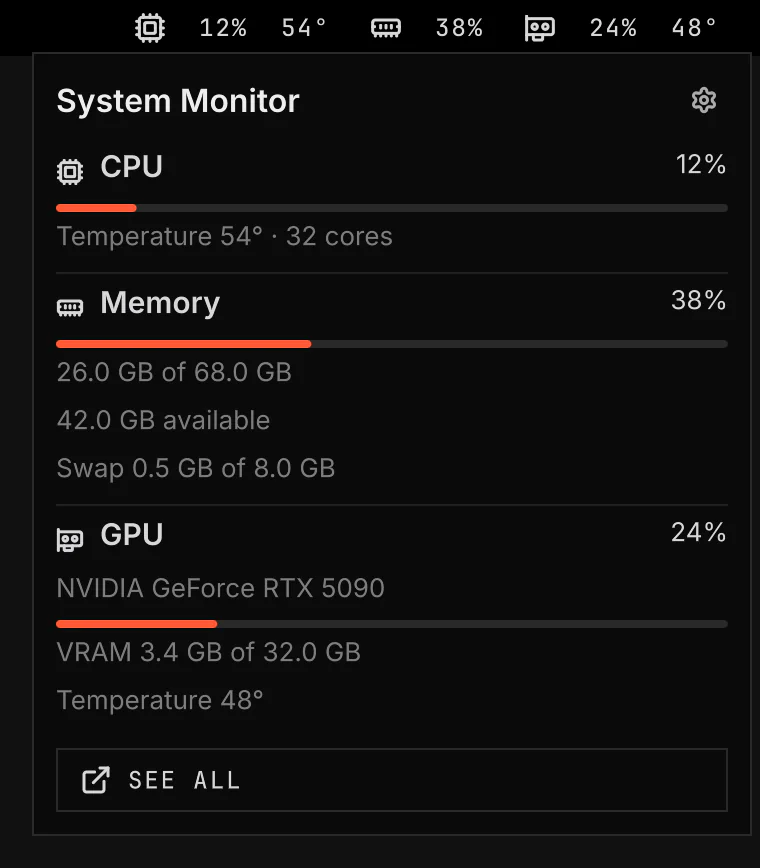
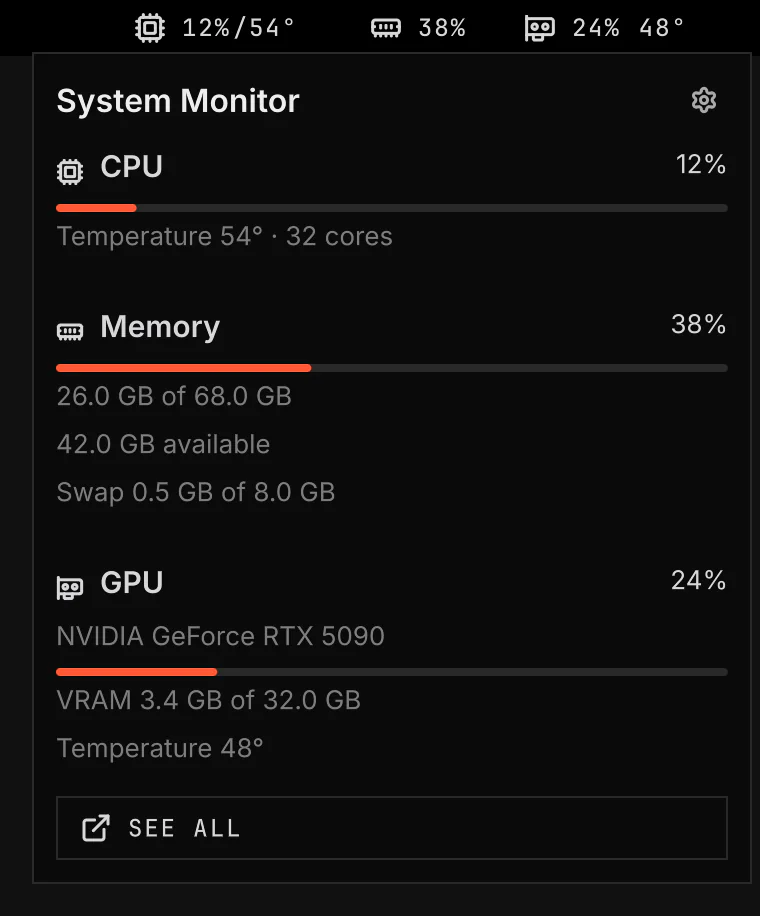
fix(VGS-1091): refine readings and sensor settings
Address review

[validate: qml unit controls; nested smoke]

diff --git a/scripts/qml-tests/tst_sysmon_widget.qml b/scripts/qml-tests/tst_sysmon_widget.qml
@@ -11,6 +11,7 @@ Item {
     property var leaseCalls: []
     QtObject { id: status; property var values: ({}) }
     Component { id: widgetComponent; Sysmon.Widget {} }
+    Component { id: panelComponent; Sysmon.Panel {} }
 
     TestCase {
         id: tests
@@ -25,7 +26,7 @@ Item {
                 gpu: gpu === undefined ? { id: "gpu", name: "Fixture GPU", state: "awake", use: use, temperature: 42 } : gpu };
         }
         function scope() {
-            return { status: status,
+            return { status: status, settings: {}, requirements: { missing: ["btop"] },
                 ipc: { call: function (method, argument) {
                     root.leaseCalls = root.leaseCalls.concat([[method, argument]]);
                     return "ok";
@@ -92,15 +93,52 @@ Item {
             widget.settings = { showCpu: true, showMemory: true, showGpu: true,
                 cpuTemperature: true, gpuTemperature: true, showSwap: true, memoryUnit: "used" };
             const readings = items();
-            compare(readings[0].count, "54°");
+            compare(readings[0].text + readings[0].count, "5%/54°");
             compare(readings[1].text, "1.0 GB");
             compare(readings[1].count, "· 0%");
             compare(readings[2].count, "42°");
             status.values = { readings: sample(null) };
             const empty = sample(null); empty.cpu.temperature = null; empty.gpu.temperature = null;
             status.values = { readings: empty };
-            compare(readings[0].count, "--");
+            compare(readings[0].count, "/--");
             compare(readings[2].count, "--");
+        }
+        function test_fahrenheit_readings_keep_celsius_tones() {
+            widget.settings = { showCpu: true, showGpu: true, cpuTemperature: true,
+                gpuTemperature: true, temperatureUnit: "Fahrenheit" };
+            const value = sample(12); value.cpu.temperature = 70; value.gpu.temperature = 65;
+            status.values = { readings: value };
+            const readings = items();
+            compare(readings[0].text + readings[0].count, "12%/158°");
+            compare(readings[2].count, "149°");
+            compare(readings[0].countTone, Qt.color(Theme.color.warning));
+            compare(readings[2].countTone, Qt.color(Theme.color.warning));
+            verify(readings[0].tooltip.indexOf("158°") !== -1);
+            verify(readings[2].tooltip.indexOf("149°") !== -1);
+            wait(0);
+            const width = widget.implicitWidth;
+            status.values = { readings: sample(100) };
+            wait(0);
+            compare(widget.implicitWidth, width);
+        }
+        function test_panel_converts_cpu_and_gpu_details() {
+            const facade = scope(); facade.settings = { temperatureUnit: "Fahrenheit" };
+            const panel = createTemporaryObject(panelComponent, root, { shell: facade });
+            verify(panel !== null);
+            const found = [];
+            function walk(node) {
+                for (const child of node.children) {
+                    if (child.details !== undefined && child.title !== undefined && child.iconName !== undefined) found.push(child);
+                    walk(child);
+                }
+            }
+            walk(panel);
+            verify(found.find(item => item.iconName === "cpu").details[0].indexOf("129°") !== -1);
+            verify(found.find(item => item.iconName === "gpu").details[1].indexOf("108°") !== -1);
+            const reading = sample(5); reading.cpu.temperature = null; reading.gpu.temperature = null;
+            status.values = { readings: reading };
+            verify(found.find(item => item.iconName === "cpu").details[0].indexOf("--") !== -1);
+            verify(found.find(item => item.iconName === "gpu").details[1].indexOf("--") !== -1);
         }
         function test_production_tone_boundaries_data() {
             const rules = [

diff --git a/scripts/qml-tests/tst_sysmon_service.qml b/scripts/qml-tests/tst_sysmon_service.qml
@@ -35,7 +35,7 @@ Item {
         function init() {
             root.publications = []; paths = []; cpuReads = 0;
             directories = {}; fixtureFiles = {}; listedPaths = [];
-            const scope = { settings: { gpu: "", refreshSeconds: 10 }, requirements: { missing: [] },
+            const scope = { settings: { gpu: "", cpuSensor: "automatic", refreshSeconds: 10 }, requirements: { missing: [] },
                 status: { set: function (key, value) { root.publications = root.publications.concat([{ key: key, value: value }]); return "ok"; } } };
             service = createTemporaryObject(serviceComponent, root, { registered: true, shell: scope });
             verify(service !== null);
@@ -75,6 +75,35 @@ Item {
             fail("the finite read queue did not complete");
         }
         function readingsCount() { return root.publications.filter(row => row.key === "readings").length; }
+        function test_discovered_cpu_sensor_selection() {
+            directories = { "/sys/class/hwmon": ["/sys/class/hwmon/hwmon7", "/sys/class/hwmon/hwmon8"],
+                "/sys/class/hwmon/hwmon7": ["/sys/class/hwmon/hwmon7/temp1_input", "/sys/class/hwmon/hwmon7/temp2_input"],
+                "/sys/class/thermal": ["/sys/class/thermal/thermal_zone0", "/sys/class/thermal/thermal_zone1"] };
+            fixtureFiles = { "/sys/class/hwmon/hwmon7/name": "k10temp\n", "/sys/class/hwmon/hwmon8/name": "amdgpu\n",
+                "/sys/class/hwmon/hwmon7/temp1_label": "Tctl\n", "/sys/class/hwmon/hwmon7/temp2_label": "Tccd1\n",
+                "/sys/class/hwmon/hwmon7/temp1_input": "54000", "/sys/class/hwmon/hwmon7/temp2_input": "63000",
+                "/sys/class/thermal/thermal_zone0/type": "x86_pkg_temp\n", "/sys/class/thermal/thermal_zone1/type": "x86_pkg_temp\n" };
+            service.discover(); drain("suspended");
+            const choices = root.publications.filter(row => row.key === "cpuSensors").pop().value;
+            verify(PluginLogic.statusWrite({ status: { cpuSensors: { type: "choices" } } }, {}, "cpuSensors", choices).ok);
+            compare(choices.filter(row => row.value === "thermal:x86_pkg_temp").length, 1);
+            verify(listedPaths.indexOf("/sys/class/hwmon/hwmon8") === -1, "GPU sensors stay outside the CPU path");
+            open(); drain("active");
+            compare(service.readings.cpu.temperature, 54);
+            const selected = service.cpuSensors.find(row => row.path === "/sys/class/hwmon/hwmon7/temp2_input");
+            service.shell = Object.assign({}, service.shell, { settings: { gpu: "", cpuSensor: selected.value, refreshSeconds: 10 } });
+            service.tick(); drain("active");
+            compare(service.readings.cpu.temperature, 63);
+            const model = PluginLogic.settingChoices({ schema: { cpuSensor: { optionsFrom: "cpuSensors" } } }, { cpuSensors: choices }, { cpuSensor: "automatic" }).cpuSensor;
+            service.shell = Object.assign({}, service.shell, { settings: { gpu: "", cpuSensor: model[0].value, refreshSeconds: 10 } });
+            service.tick(); drain("active");
+            compare(service.readings.cpu.temperature, 54, "the Settings first-offered choice selects the automatic sensor");
+            paths = [];
+            service.shell = Object.assign({}, service.shell, { settings: { gpu: "", cpuSensor: "/etc/passwd", refreshSeconds: 10 } });
+            service.tick(); drain("active");
+            compare(service.readings.cpu.temperature, null);
+            compare(JSON.stringify(paths), JSON.stringify(["/proc/stat", "/proc/meminfo"]));
+        }
         function test_graphics_status_copy_data() {
             return [{ tag: "absent", driver: "", text: "Not found", hint: "No supported graphics card found.", tone: "info" },
                 { tag: "supported-nvidia", driver: "nvidia", text: "Available", tone: "ok" }];

diff --git a/scripts/test-sysmon-logic.js b/scripts/test-sysmon-logic.js
@@ -56,6 +56,24 @@ function suite(logic) {
         [[device("k10temp", "Tccd1", "/wrong")], [], null],
         [[], [], null]
     ]) assert.equal(logic.chooseCpuTemperature(devices, zones), want);
+    const sensors = logic.cpuTemperatureSensors([core, zen, k10], thermal);
+    assert.equal(logic.selectedCpuTemperature(sensors, "automatic"), "/hwmon7/temp2_input");
+    assert.equal(logic.selectedCpuTemperature(sensors, ""), "/hwmon7/temp2_input");
+    for (const sensor of sensors) assert.equal(logic.selectedCpuTemperature(sensors, sensor.value), sensor.path);
+    for (const configured of [undefined, "removed", "/etc/passwd", "/hwmon7/temp2_input"])
+        assert.equal(logic.selectedCpuTemperature(sensors, configured), "");
+    const renumbered = logic.cpuTemperatureSensors([device("k10temp", "Tctl", "/hwmon99/temp2_input")], []);
+    const key = sensors.find(sensor => sensor.path === k10.temperatures[0].path).value;
+    assert.equal(logic.selectedCpuTemperature(renumbered, key), "/hwmon99/temp2_input");
+    const duplicated = logic.cpuTemperatureSensors([core, device("coretemp", "Package id 0", "/hwmon88/temp1_input")], thermal.concat(thermal));
+    assert.equal(new Set(duplicated.map(sensor => sensor.value)).size, duplicated.length);
+    assert.equal(logic.selectedCpuTemperature(duplicated, sensors.find(sensor => sensor.path === core.temperatures[0].path).value), "");
+    assert.equal(logic.selectedCpuTemperature(duplicated, "automatic"), "/hwmon5/temp1_input");
+    assert.equal(logic.selectedCpuTemperature(logic.cpuTemperatureSensors([], []), "automatic"), "");
+    assert.equal(logic.cpuTemperatureSensors([], [{ type: "", path: "/missing" }]).some(sensor => sensor.path === "/missing"), false);
+    for (const [value, unit, want] of [[0, "Celsius", "0°"], [0, "Fahrenheit", "32°"],
+        [54, "Celsius", "54°"], [54, "Fahrenheit", "129°"], [-40, "Fahrenheit", "-40°"],
+        [null, "Fahrenheit", "--"], [NaN, "Celsius", "--"]]) assert.equal(logic.degrees(value, unit), want);
     for (const [raw, want] of [["54000\n", 54], ["0", 0], ["-5000", -5], ["[N/A]", null], ["", null], ["4x", null]])
         assert.equal(logic.temperature(raw), want);
     for (const [raw, want] of [["0", 0], ["3.5\n", 3.5], ["", null], [undefined, null], ["[N/A]", null], ["N/A", null], ["-1", null], ["4x", null]])
@@ -102,7 +120,11 @@ if (!process.env.SYS_MON_LOGIC_PATH) {
             ["cpu-backwards", "value < previous.counters[index]", "false"],
             ["hwmon-label", 'label: "Tctl"', 'label: "Tccd1"'],
             ["amd-temperature-unit", "value / 1000", "value"],
-            ["nvidia-memory-unit", "vramUsed: used === null ? null : used * 1048576", "vramUsed: used === null ? null : used"]
+            ["nvidia-memory-unit", "vramUsed: used === null ? null : used * 1048576", "vramUsed: used === null ? null : used"],
+            ["cpu-sensor-missing", 'return sensor ? sensor.path : "";', 'return sensor ? sensor.path : configured;'],
+            ["cpu-sensor-first-offer", 'const sensor = configured === "" ? sensors[0] : sensors.find(row => row.value === configured);', "const sensor = sensors.find(row => row.value === configured);"],
+            ["cpu-sensor-duplicate", 'duplicate.path = "";', 'duplicate.path = path;'],
+            ["fahrenheit-conversion", "value * 9 / 5 + 32", "value"]
         ]) {
             assert.equal(source.split(needle).length - 1, matchCount, name + " mutation match count");
             const changed = source.split(needle).join(replacement);

diff --git a/shell/Ui/controls/BarItem.qml b/shell/Ui/controls/BarItem.qml
@@ -28,10 +28,11 @@ T.AbstractButton {
 
     property string iconName: ""
     property string count: ""
-    // TextMetrics.advanceWidth keeps these slots independent of the current
-    // reading. Empty reservations retain the label's natural width.
+    // Reserve unused reading width after both labels, so short values keep
+    // the same icon gap. https://quickshell.org/docs/v0.3.1/guide/size-position
     property string reservedText: ""
     property string reservedCount: ""
+    property bool compactCount: false
     property color textTone: foreground
     property color countTone: foreground
     property bool spinning: false
@@ -89,25 +90,33 @@ T.AbstractButton {
             }
             TextMetrics { id: textWidth; font: textLabel.font; text: root.reservedText }
             TextMetrics { id: countWidth; font: countLabel.font; text: root.reservedCount }
-            Label {
-                id: textLabel
-                role: "bar"
-                visible: root.text !== ""
-                width: root.reservedText === "" ? implicitWidth : Math.ceil(textWidth.advanceWidth)
-                horizontalAlignment: Text.AlignRight
-                text: root.text
-                color: root.textTone
-                y: topForCapCenter(row.height)
-            }
-            Label {
-                id: countLabel
-                role: "bar"
-                visible: root.count !== ""
-                width: root.reservedCount === "" ? implicitWidth : Math.ceil(countWidth.advanceWidth)
-                horizontalAlignment: Text.AlignRight
-                text: root.count
-                color: root.countTone
-                y: topForCapCenter(row.height)
+            Item {
+                visible: root.text !== "" || root.count !== ""
+                width: Math.max(values.implicitWidth,
+                    (root.text === "" ? 0 : root.reservedText === "" ? textLabel.implicitWidth : Math.ceil(textWidth.advanceWidth))
+                    + (root.count === "" ? 0 : root.reservedCount === "" ? countLabel.implicitWidth : Math.ceil(countWidth.advanceWidth))
+                    + (root.text !== "" && root.count !== "" ? values.spacing : 0))
+                height: values.implicitHeight
+                Row {
+                    id: values
+                    spacing: root.compactCount ? 0 : root.spacing
+                    Label {
+                        id: textLabel
+                        role: "bar"
+                        visible: root.text !== ""
+                        text: root.text
+                        color: root.textTone
+                        y: topForCapCenter(row.height)
+                    }
+                    Label {
+                        id: countLabel
+                        role: "bar"
+                        visible: root.count !== ""
+                        text: root.count
+                        color: root.countTone
+                        y: topForCapCenter(row.height)
+                    }
+                }
             }
         }
     }

diff --git a/shell/plugins/vgs.sysmon/Widget.qml b/shell/plugins/vgs.sysmon/Widget.qml
@@ -17,7 +17,7 @@ BarWidget {
     visible: setting("showCpu", true) || setting("showMemory", true) || (setting("showGpu", true) && gpu !== null)
 
     function percent(value) { return typeof value === "number" ? Math.round(value) + "%" : "--"; }
-    function degrees(value) { return typeof value === "number" ? Math.round(value) + "°" : "--"; }
+    function degrees(value) { return Logic.degrees(value, setting("temperatureUnit", "Celsius")); }
     function gb(value) { return typeof value === "number" ? (value / 1073741824).toFixed(1) + " GB" : "--"; }
     function tone(value, warning, danger) {
         const state = Logic.tone(value, warning, danger);
@@ -48,8 +48,9 @@ BarWidget {
             iconName: "cpu"
             text: root.percent(root.cpu.use)
             reservedText: "100%"
-            count: root.setting("cpuTemperature", false) ? root.degrees(root.cpu.temperature) : ""
-            reservedCount: "100°"
+            count: root.setting("cpuTemperature", false) ? "/" + root.degrees(root.cpu.temperature) : ""
+            compactCount: true
+            reservedCount: root.setting("temperatureUnit", "Celsius") === "Fahrenheit" ? "/212°" : "/100°"
             tone: root.tone(root.cpu.use, 60, 80)
             textTone: Theme.bar.foreground
             countTone: root.tone(root.cpu.temperature, 70, 85)
@@ -77,7 +78,7 @@ BarWidget {
             text: root.percent(root.gpu && root.gpu.state === "asleep" ? null : root.gpu ? root.gpu.use : null)
             reservedText: "100%"
             count: root.setting("gpuTemperature", false) ? root.degrees(root.gpu && root.gpu.state !== "asleep" ? root.gpu.temperature : null) : ""
-            reservedCount: "100°"
+            reservedCount: root.setting("temperatureUnit", "Celsius") === "Fahrenheit" ? "212°" : "100°"
             countTone: root.tone(root.gpu ? root.gpu.temperature : null, 65, 80)
             tooltip: root.gpu ? root.gpu.name + " · " + (root.gpu.state === "asleep" ? "Asleep" : root.percent(root.gpu.use) + " · " + root.degrees(root.gpu.temperature)) : "GPU"
             onClicked: root.toggle()

diff --git a/shell/plugins/vgs.sysmon/SysmonLogic.js b/shell/plugins/vgs.sysmon/SysmonLogic.js
@@ -70,6 +70,39 @@ function chooseCpuTemperature(devices, thermalZones) {
     return zone ? zone.path : null;
 }
 
+function cpuTemperatureSensors(devices, thermalZones) {
+    const sensors = [{ value: "automatic", label: "Automatic", path: chooseCpuTemperature(devices, thermalZones) || "" }];
+    function add(value, label, path) {
+        const duplicate = sensors.find(row => row.value === value);
+        // Multiple CPU packages can report the same core label. Keep one
+        // choice, but never redirect an explicit selection to another chip.
+        if (duplicate) { duplicate.path = ""; duplicate.label = label + " (more than one sensor)"; }
+        else sensors.push({ value: value, label: label, path: path });
+    }
+    devices.forEach(device => device.temperatures.forEach(sensor => {
+        const channel = sensor.path.substring(sensor.path.lastIndexOf("/") + 1).replace(/_input$/, "");
+        const name = device.name === "coretemp" ? "Intel CPU" : "AMD CPU";
+        const label = sensor.label || channel;
+        add("hwmon:" + device.name + ":" + channel + ":" + label, name + " · " + label, sensor.path);
+    }));
+    thermalZones.forEach(zone => {
+        if (zone.type === "") return;
+        add("thermal:" + zone.type, zone.type === "x86_pkg_temp" ? "CPU package" : zone.type.replace(/_/g, " "), zone.path);
+    });
+    return sensors;
+}
+
+function selectedCpuTemperature(sensors, configured) {
+    // Settings offers an empty value for its first published choice.
+    const sensor = configured === "" ? sensors[0] : sensors.find(row => row.value === configured);
+    return sensor ? sensor.path : "";
+}
+
+function degrees(value, unit) {
+    if (typeof value !== "number" || !Number.isFinite(value)) return "--";
+    return Math.round(unit === "Fahrenheit" ? value * 9 / 5 + 32 : value) + "°";
+}
+
 function amdGpu(files) {
     const use = number(files.use);
     return { use: use !== null && use <= 100 ? use : null,

diff --git a/scripts/qml-tests/tst_baritem.qml b/scripts/qml-tests/tst_baritem.qml
@@ -130,16 +130,22 @@ Item {
             reserved.text = "5%"; reserved.count = "9°";
             wait(0);
             const width = reserved.width;
-            const textWidth = labels(reserved)[0].width;
-            const countWidth = labels(reserved)[1].width;
             reserved.text = "100%";
             wait(0);
             compare(reserved.width, width);
-            compare(labels(reserved)[0].width, textWidth);
             reserved.count = "100°";
             wait(0);
             compare(reserved.width, width);
-            compare(labels(reserved)[1].width, countWidth);
+        }
+
+        function test_reservations_follow_the_drawn_reading() {
+            reserved.iconName = "cpu"; reserved.text = "5%"; reserved.count = "/9°"; reserved.compactCount = true;
+            const found = labels(reserved), glyph = firstIcon(reserved);
+            tryVerify(() => Math.abs(found[0].mapToItem(reserved, 0, 0).x - glyph.mapToItem(reserved, glyph.width, 0).x - Theme.bar.item.iconGap) <= 0.5, 1000, "the drawn reading follows the icon after layout");
+            fuzzyCompare(found[0].mapToItem(reserved, 0, 0).x - glyph.mapToItem(reserved, glyph.width, 0).x, Theme.bar.item.iconGap, 0.5);
+            fuzzyCompare(found[1].mapToItem(reserved, 0, 0).x, found[0].mapToItem(reserved, found[0].width, 0).x, 0.5);
+            verify(found[1].mapToItem(reserved, found[1].width, 0).x < reserved.width - reserved.rightPadding);
+            reserved.iconName = ""; reserved.compactCount = false;
         }
 
         function test_text_and_count_take_separate_tones() {

diff --git a/shell/plugins/vgs.sysmon/Service.qml b/shell/plugins/vgs.sysmon/Service.qml
@@ -13,7 +13,7 @@ Item {
     readonly property bool polling: poller.running
     property bool discovered: false
     property var devices: []
-    property string cpuTemperaturePath: ""
+    property var cpuSensors: []
     property var previousCpu: null
     property var readings: ({ cpu: {}, memory: {}, gpu: null })
     property bool cycleBusy: false
@@ -25,6 +25,7 @@ Item {
     property bool queryEnding: false
     property var gpuResult: null
     readonly property string chosenGpu: shell === null ? "" : shell.settings.gpu
+    readonly property string cpuTemperaturePath: Logic.selectedCpuTemperature(cpuSensors, shell === null ? "" : shell.settings.cpuSensor)
     readonly property bool nvidiaPresent: shell !== null && shell.requirements.missing.indexOf("nvidia-smi") === -1
 
     function read(path, done) {
@@ -84,7 +85,8 @@ Item {
         let pending = 3;
         function finish() {
             if (--pending !== 0) return;
-            cpuTemperaturePath = Logic.chooseCpuTemperature(hwmon, thermal) || "";
+            cpuSensors = Logic.cpuTemperatureSensors(hwmon, thermal);
+            shell.status.set("cpuSensors", cpuSensors.map(sensor => ({ value: sensor.value, label: sensor.label })));
             devices = Logic.orderGpus(cards);
             publishChoices();
             if (!nvidiaPresent && devices.some(card => card.driver === "nvidia")) shell.requirements.offer(["nvidia-smi"]);

diff --git a/shell/plugins/vgs.sysmon/Panel.qml b/shell/plugins/vgs.sysmon/Panel.qml
@@ -31,7 +31,7 @@ FocusScope {
     Component.onDestruction: close()
     function setting(name, fallback) { return shell !== null && shell.settings[name] !== undefined ? shell.settings[name] : fallback; }
     function percent(value) { return typeof value === "number" ? Math.round(value) + "%" : "--"; }
-    function degrees(value) { return typeof value === "number" ? Math.round(value) + "°" : "--"; }
+    function degrees(value) { return Logic.degrees(value, setting("temperatureUnit", "Celsius")); }
     function gb(value) { return typeof value === "number" ? (value / 1073741824).toFixed(1) + " GB" : "--"; }
     function tone(value, warning, danger) { const state = Logic.tone(value, warning, danger); return state === "normal" ? "accent" : state; }
     function seeAll() {
@@ -57,8 +57,9 @@ FocusScope {
                 Button { visible: root.btopPresent; width: parent.width; text: "See all"; iconName: "external-link"; variant: "tertiary"; onClicked: root.seeAll() }
             }
         ]
-        GroupList {
+        Column {
             width: layout.contentWidth
+            spacing: Theme.stack.section
             Reading {
                 width: parent.width
                 visible: root.setting("showCpu", true)

diff --git a/scripts/smoke/fixtures/sysmon/Service.qml b/scripts/smoke/fixtures/sysmon/Service.qml
@@ -8,5 +8,10 @@ Item {
         if (shell === null || registered) return;
         registered = true;
         shell.ipc.handle("lease", () => "ok");
+        shell.status.set("cpuSensors", [
+            { value: "automatic", label: "Automatic" },
+            { value: "hwmon:k10temp:temp1:Tctl", label: "AMD CPU · Tctl" },
+            { value: "hwmon:k10temp:temp2:Tccd1", label: "AMD CPU · Tccd1" }
+        ]);
     }
 }
